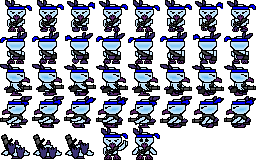
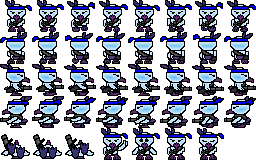
add idle animation

Changed region(s): [[0.625, 0.7812, 0.875, 1.0]]

diff --git a/src/lifish/entities/Player.cpp b/src/lifish/entities/Player.cpp
@@ -33,6 +33,7 @@ Player::Player(const sf::Vector2f& pos, const unsigned short id)
 }
 
 void Player::_init() {
+	// Setup components
 	addComponent(new Game::Lifed(*this, Game::Conf::Player::MAX_LIFE));
 	addComponent(new Game::Collider(*this, [this] (Game::Collider& cld) {
 		if (!killable->isKilled())
@@ -59,6 +60,7 @@ void Player::_init() {
 	hurtClock = addComponent(new Game::Clock(*this));
 	death = addComponent(new Game::RegularEntityDeath(*this, Game::Conf::Player::DEATH_TIME));
 
+	// Setup animations
 	auto& a_down = animated->addAnimation("walk_down");
 	auto& a_up = animated->addAnimation("walk_up");
 	auto& a_right = animated->addAnimation("walk_right");
@@ -77,14 +79,20 @@ void Player::_init() {
 
 	for (unsigned short i = 0; i < DEATH_N_FRAMES; ++i)
 		a_death.addFrame(sf::IntRect(i * TILE_SIZE, 4 * TILE_SIZE, TILE_SIZE, TILE_SIZE));
-	a_win.addFrame(sf::IntRect(3 * TILE_SIZE, 4 * TILE_SIZE, TILE_SIZE, TILE_SIZE));
-	a_hurt.addFrame(sf::IntRect(4 * TILE_SIZE, 4 * TILE_SIZE, TILE_SIZE, TILE_SIZE));
+	a_win.addFrame(sf::IntRect(DEATH_N_FRAMES * TILE_SIZE, 4 * TILE_SIZE, TILE_SIZE, TILE_SIZE));
+	a_hurt.addFrame(sf::IntRect((DEATH_N_FRAMES + 1) * TILE_SIZE, 4 * TILE_SIZE, TILE_SIZE, TILE_SIZE));
+
+	auto& a_idle = animated->addAnimation("idle");
+	for (unsigned short i = 0; i < IDLE_N_FRAMES; ++i)
+		a_idle.addFrame(sf::IntRect((DEATH_N_FRAMES + 2) * TILE_SIZE, 4 * TILE_SIZE, TILE_SIZE, TILE_SIZE));
+	a_idle.addFrame(sf::IntRect((DEATH_N_FRAMES + 3) * TILE_SIZE, 4 * TILE_SIZE, TILE_SIZE, TILE_SIZE));
 
 	auto& animatedSprite = animated->getSprite();
-	animatedSprite.setAnimation(a_down);
+	animated->setDefaultFrameTime(sf::seconds(0.06));
+	animated->setFrameTime("idle", sf::seconds(0.15));
+	animated->setAnimation(a_idle);
 	animatedSprite.setLooped(true);
-	animatedSprite.setFrameTime(sf::seconds(0.06));
-	animatedSprite.pause();
+	animatedSprite.play();
 }
 
 void Player::update() {
@@ -108,7 +116,7 @@ void Player::update() {
 		if (dir != Game::Direction::NONE)
 			animated->setAnimation("walk_" + Game::directionToString(dir));
 		else {
-			animated->setAnimation("walk_down");
+			animated->setAnimation("idle");
 			moving->stop();
 		}
 	}
@@ -182,8 +190,8 @@ void Player::_checkCollision(Game::Collider& cld) {
 
 void Player::resurrect() {
 	auto& animatedSprite = get<Game::Animated>()->getSprite();
-	animatedSprite.setAnimation(*get<Game::Animated>()->getAnimation("walk_down"));
-	animatedSprite.pause();
+	animatedSprite.setAnimation(*get<Game::Animated>()->getAnimation("idle"));
+	animatedSprite.play();
 	get<Game::Lifed>()->setLife(Game::Conf::Player::MAX_LIFE);
 	moving->realign();
 	killable->resurrect();

diff --git a/src/lifish/components/Animated.cpp b/src/lifish/components/Animated.cpp
@@ -61,6 +61,12 @@ void Animated::setAnimation(const std::string& name) {
 		throw std::invalid_argument("Animation set to non-existing `" + name + "`!");
 
 	animatedSprite.setAnimation(*anim);
+	// Set the frame time, if specified.
+	auto it = frameTimes.find(name);
+	if (it != frameTimes.end())
+		animatedSprite.setFrameTime(it->second);
+	else if (defaultFrameTime != sf::Time::Zero)
+		animatedSprite.setFrameTime(defaultFrameTime);
 }
 
 void Animated::setAnimation(Animation& anim) {
@@ -78,4 +84,12 @@ void Animated::update() {
 
 bool Animated::isPlaying(const std::string& name) {
 	return getAnimation(name) == animatedSprite.getAnimation() && animatedSprite.isPlaying();
+}
+
+void Animated::setDefaultFrameTime(sf::Time time) {
+	defaultFrameTime = time;
+}
+
+void Animated::setFrameTime(const std::string& name, sf::Time time) {
+	frameTimes[name] = time;
 }

diff --git a/src/lifish/components/Animated.hpp b/src/lifish/components/Animated.hpp
@@ -20,6 +20,8 @@ protected:
 	sf::Texture *texture;
 	Game::Clock *frameClock;
 	std::unordered_map<std::string, Animation> animations;
+	std::unordered_map<std::string, sf::Time> frameTimes;
+	sf::Time defaultFrameTime = sf::Time::Zero;
 	AnimatedSprite animatedSprite;
 	bool manualPosition = false;
 
@@ -44,6 +46,11 @@ public:
 	void setAnimation(const std::string& name);
 	/** Sets the current animation to `anim` */
 	void setAnimation(Animation& anim);
+
+	/** Sets the default frame time of all animations */
+	void setDefaultFrameTime(sf::Time time);
+	/** Sets the default frame time of animation `name` (overrides default frame time) */
+	void setFrameTime(const std::string& name, sf::Time time);
 
 	/** Returns true if cur animation == `name` and animatedSprite is playing */
 	bool isPlaying(const std::string& name);

diff --git a/src/lifish/entities/BreakableWall.cpp b/src/lifish/entities/BreakableWall.cpp
@@ -18,12 +18,6 @@ BreakableWall::BreakableWall(const sf::Vector2f& pos, const std::string& texture
 		unsigned short life, unsigned int score)
 	: Game::Entity(pos)
 {
-	// TODO
-	//transparentTo.players = false;
-	//transparentTo.enemies = false;
-	//transparentTo.bullets = false;
-	//transparentTo.explosions = false;
-	
 	_setupComponents(life, score);
 	auto& animation = _setupAnimations(texture_name);
 	for (unsigned short i = 0; i < 4; ++i)

diff --git a/src/lifish/entities/Player.hpp b/src/lifish/entities/Player.hpp
@@ -59,6 +59,7 @@ class Player : public Game::Entity {
 
 	constexpr static unsigned short WALK_N_FRAMES = 8;
 	constexpr static unsigned short DEATH_N_FRAMES = 3;
+	constexpr static unsigned short IDLE_N_FRAMES = 20;
 	const static sf::Time DEATH_TIME;
 
 	/** While true, the idle pose becomes ANIM_WIN */

diff --git a/src/lifish/components/MovingAnimator.cpp b/src/lifish/components/MovingAnimator.cpp
@@ -41,8 +41,8 @@ void MovingAnimator::update() {
 
 	if (!moving->isMoving()) {
 		if (prev != Game::Direction::NONE) {
-			animated->setAnimation("walk_down");
-			sprite.stop();	
+			animated->setAnimation("idle");
+			sprite.play();
 		}
 		prev = dir;
 		return;
